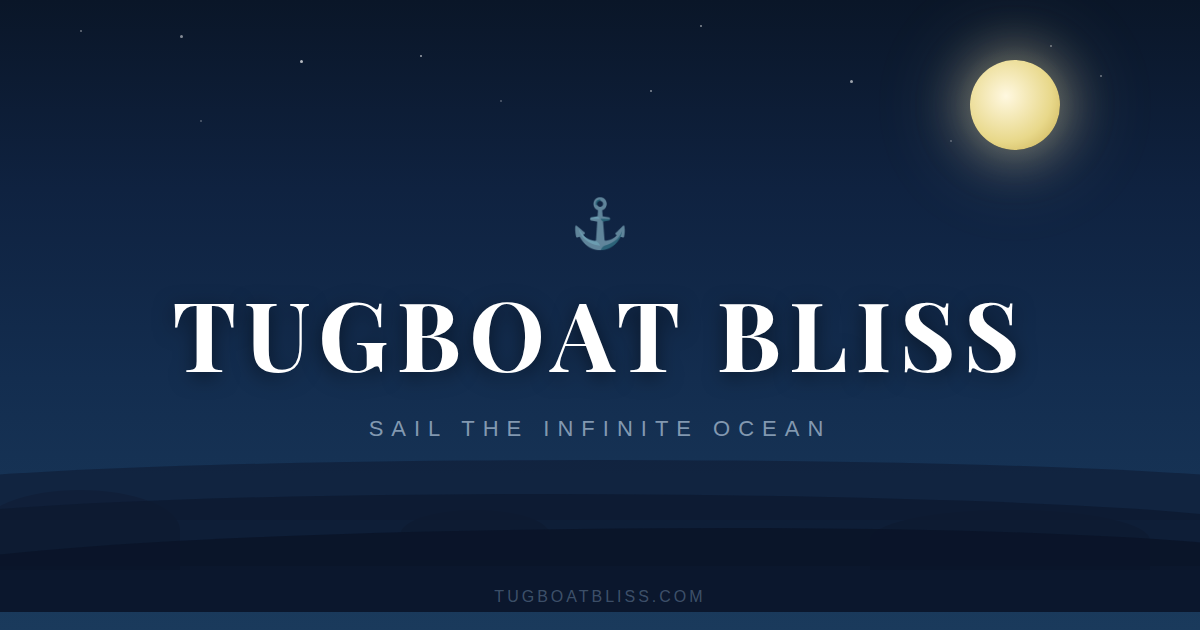
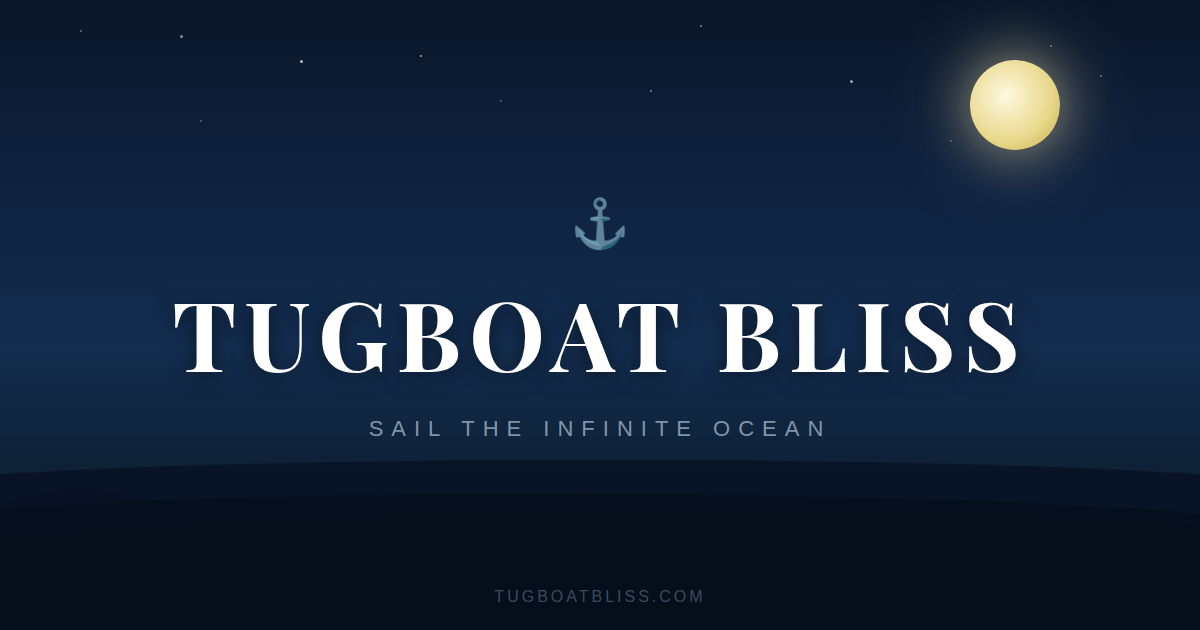
Darker OG image bottom, h1 center+padding, scrollable selector
- OG image: darker wave/bottom colors to eliminate light blue gap
- H1: text-align center, 8px horizontal padding
- Loading screen: overflow-y auto for small viewports

Changed region(s): [[0.0, 0.6937, 1.0, 0.8746], [0.0, 0.9651, 1.0, 1.0]]

diff --git a/index.html b/index.html
@@ -81,6 +81,8 @@
       font-family: 'Segoe UI', system-ui, sans-serif;
       z-index: 100;
       transition: opacity 0.8s ease;
+      overflow-y: auto;
+      padding: 24px 0;
     }
 
     #loading-screen.hidden {
@@ -94,7 +96,8 @@
       font-weight: 700;
       margin-bottom: 32px;
       letter-spacing: 6px;
-      padding: 0 16px;
+      padding: 0 8px;
+      text-align: center;
     }
 
     #loading-bar-container {
